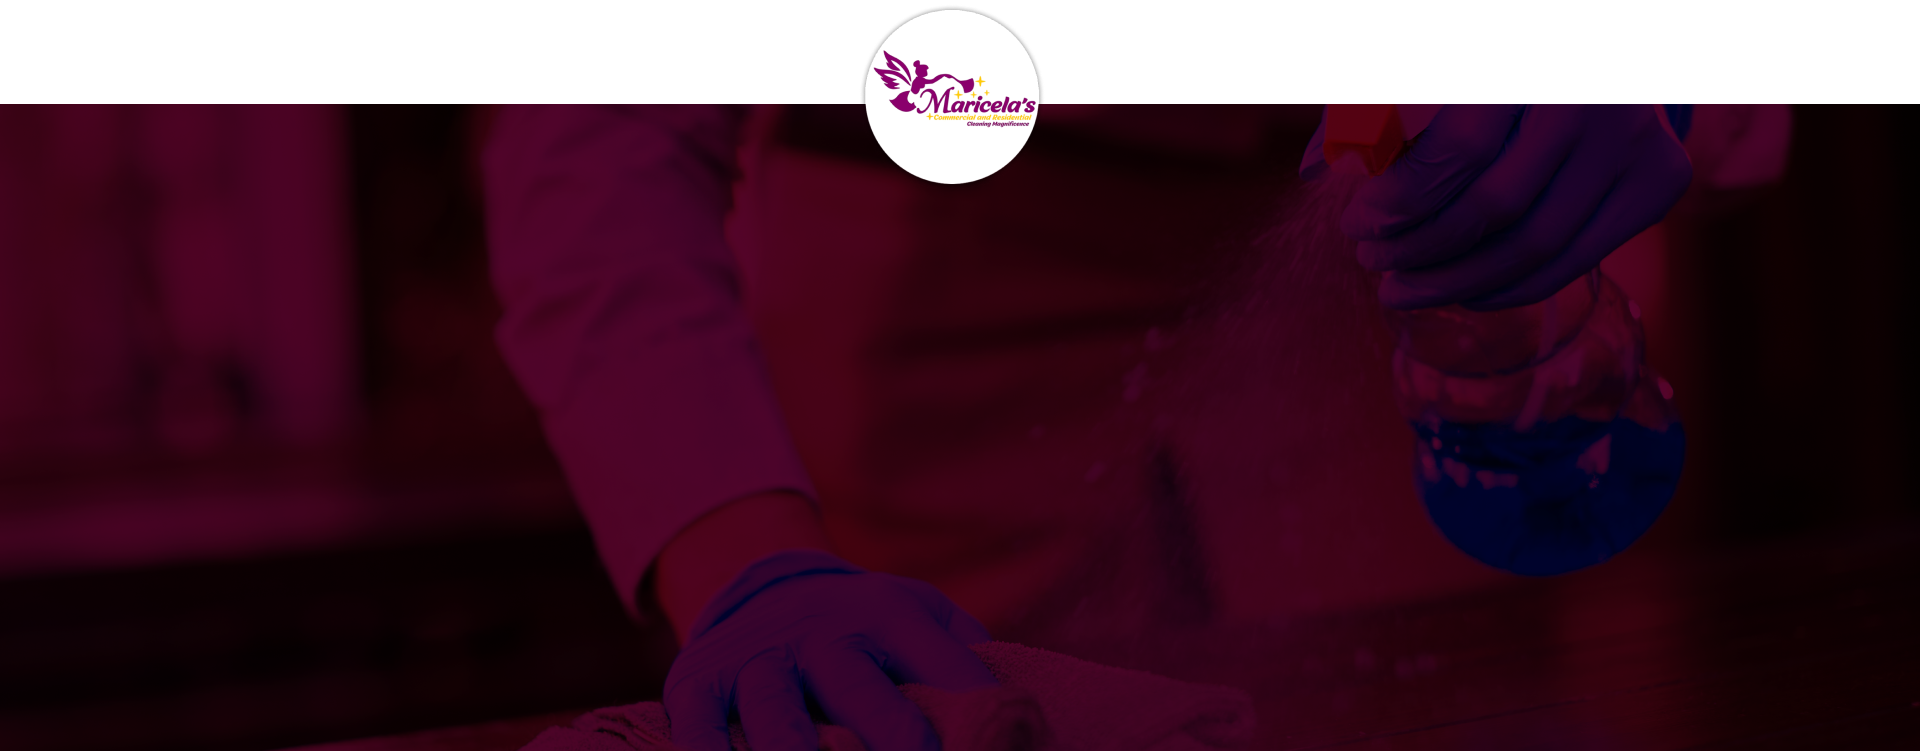
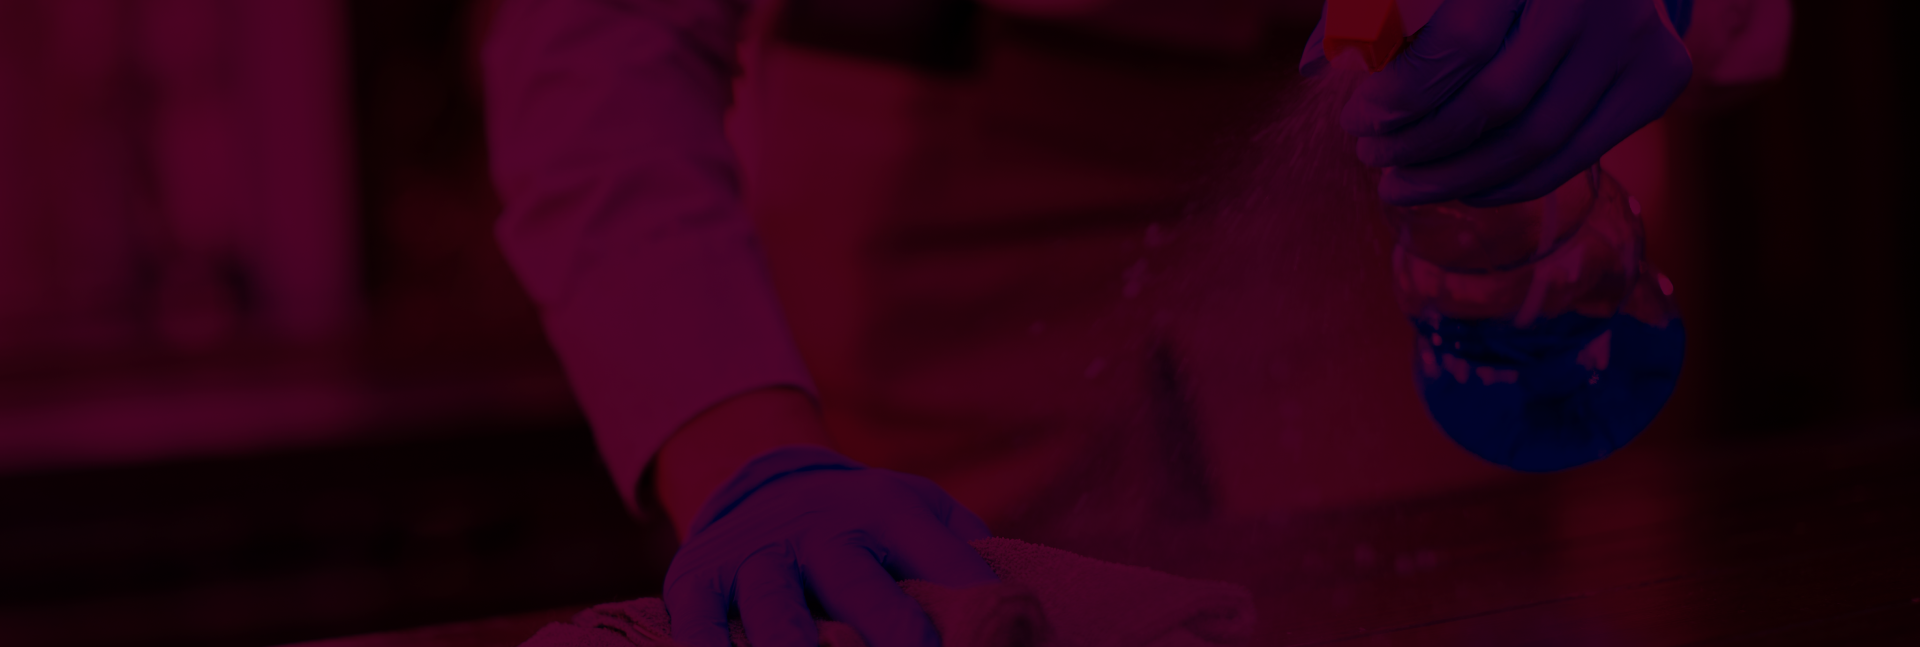
footer problem solve

diff --git a/components/__layouts/Footers/Footer.jsx b/components/__layouts/Footers/Footer.jsx
@@ -7,6 +7,7 @@ import google from "@/public/assets/footer/google.png";
 import home from "@/public/assets/footer/home.png";
 import three from "@/public/assets/footer/three.png";
 import star from "../../../public/assets/random/star.png"
+import companyLogo from "../../../public/assets/footer/logo.png"
 import { FaMapMarkedAlt } from "react-icons/fa";
 import { FaPhoneVolume } from "react-icons/fa6";
 import { IoIosMail } from "react-icons/io";
@@ -36,14 +37,19 @@ const Footer = () => {
 
   return (
     <footer className="">
-      <div className=" footer__bg bg-blend-multiply !bg-[#54042C] lg:px-[35px] xs:px-[20px] !text-white relative">
-
+      <div className=" footer__bg bg-blend-multiply  lg:px-[35px] xs:px-[20px] !text-white relative">
+        {/* star img */}
         <div className=" absolute top-10 4xl:ml-[100px] 2xl:block hidden ">
           <Image src={star} height={100} width={100} />
         </div>
 
-        <div className="container">
-          <div className="z-50 2xl:py-[95px] lg:pt-[70px] pt-[50px] text-white ">
+        {/* company logo */}
+        <div className=" absolute -top-20 left-1/2   ">
+          <Image src={companyLogo} height={182} width={182}  />
+        </div>
+
+        <div className="container  ">
+          <div className="z-100 2xl:pt-[160px]  lg:pt-[120px] pt-[80px] 2xl:pb-[65px] pb-[50px] text-white ">
             <div className="">
               <div className="grid grid-cols-1 md:grid-cols-2 lg:grid-cols-7 gap-10">
                 <div className=" lg:col-span-2 md:col-span-1 items-center">
@@ -55,7 +61,7 @@ const Footer = () => {
                     <h4 className=" lg:text-[25px] text-[20px]">
                       We Are Maricela's Cleaning Magnificence
                     </h4>
-                    <p className="text-white lg:pt-6 pt-2 mb-2 ml-2 lg:text-[13px] xs:text-[10px] ">
+                    <p className="text-white lg:pt-6 pt-2 mb-2 ml-2 lg:text-[13px] text-[10px] ">
                       We work with a passion of taking challenges and creating
                       new ones in advertising sector.
                     </p>

diff --git a/components/__layouts/Footers/footer.css b/components/__layouts/Footers/footer.css
@@ -10,10 +10,10 @@
   width: 100%;
   height: 100%;
   background-image: url("/assets/footer/footerbg.png");
-  opacity: 30% !important;
   background-size: cover;
   background-position: center;
   mix-blend-mode: multiply;
+  z-index: -1;
 }
 
 .footer-bottom-bg {
